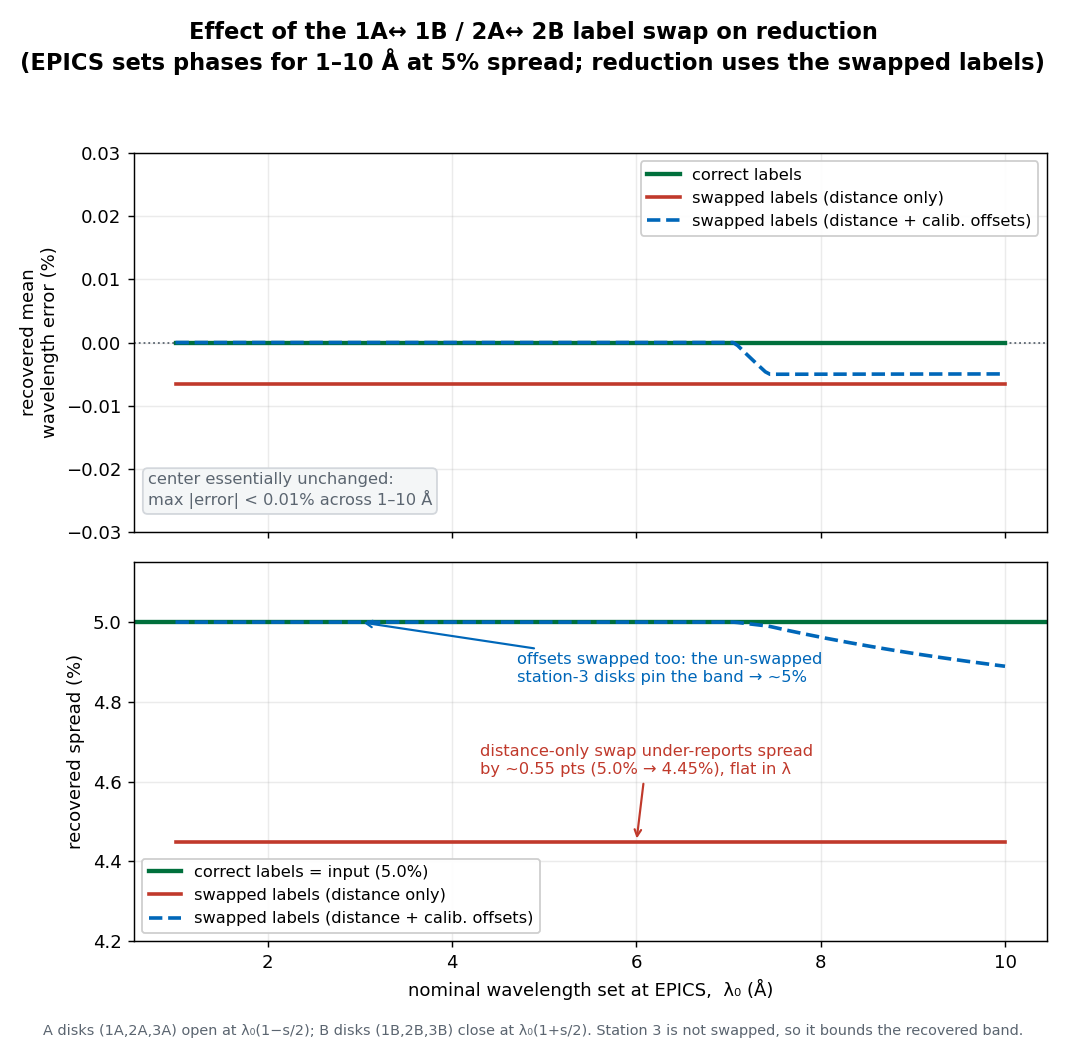
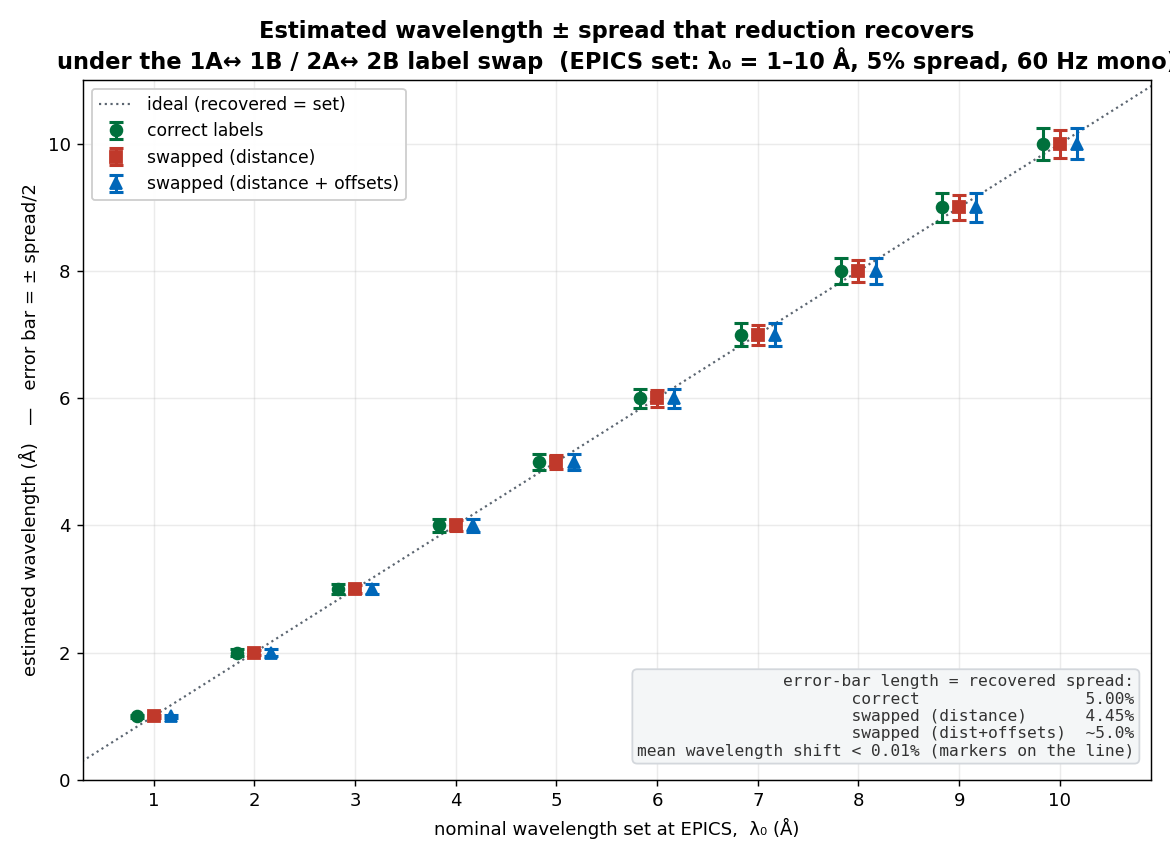
Label-swap plot: markers + error bars at 10 integer wavelengths
Recast as a single-panel comparison: marker = estimated wavelength, error bar =
+/- spread/2, at lambda0 = 1..10 A (dodged per scenario). Clearer read of both
quantities on one axis.

Changed region(s): [[0.0, 0.0, 1.0, 1.0], [0.0, 0.5152, 0.031, 0.7879], [0.2786, 0.6667, 0.3405, 0.697]]

diff --git a/analysis/chopper_label_swap.py b/analysis/chopper_label_swap.py
@@ -60,7 +60,7 @@ def recover(centers, swap_dist=False, swap_offset=False):
 
 def main():
     s_in = 0.05
-    lam = np.linspace(1.0, 10.0, 181)
+    lam = np.arange(1.0, 10.5, 1.0)          # 1,2,...,10 A  -> 10 points
     scen = {"correct":       dict(swap_dist=False, swap_offset=False),
             "swap_dist":     dict(swap_dist=True,  swap_offset=False),
             "swap_dist_off": dict(swap_dist=True,  swap_offset=True)}
@@ -77,47 +77,45 @@ def main():
     assert np.allclose(res["correct"]["s"], s_in, atol=1e-6)
 
     GREEN, BLUE, RED, GREY = "#00703c", "#0067b9", "#c0392b", "#5b6570"
-    fig, (a1, a2) = plt.subplots(2, 1, figsize=(8.2, 8.0), sharex=True)
-    fig.suptitle("Effect of the 1A↔ 1B / 2A↔ 2B label swap on reduction\n"
-                 "(EPICS sets phases for 1–10 Å at 5% spread; reduction uses the swapped labels)",
+    # marker at the estimated (recovered) wavelength; error bar = +/- spread/2
+    series = [
+        ("correct",       "correct labels",                 GREEN, "o", -0.17),
+        ("swap_dist",     "swapped (distance)",             RED,   "s",  0.00),
+        ("swap_dist_off", "swapped (distance + offsets)",   BLUE,  "^",  0.17),
+    ]
+    fig, ax = plt.subplots(figsize=(9.0, 6.6))
+    ax.set_title("Estimated wavelength ± spread that reduction recovers\n"
+                 "under the 1A↔ 1B / 2A↔ 2B label swap  "
+                 "(EPICS set: λ₀ = 1–10 Å, 5% spread, 60 Hz mono)",
                  fontsize=12.5, fontweight="bold")
-
-    a1.axhline(0, color=GREY, lw=1, ls=":")
-    a1.plot(lam, (res["correct"]["c"] - lam) / lam * 100, color=GREEN, lw=2.4, label="correct labels")
-    a1.plot(lam, (res["swap_dist"]["c"] - lam) / lam * 100, color=RED, lw=2.0, label="swapped labels (distance only)")
-    a1.plot(lam, (res["swap_dist_off"]["c"] - lam) / lam * 100, color=BLUE, lw=2.0, ls="--", label="swapped labels (distance + calib. offsets)")
-    a1.set_ylabel("recovered mean\nwavelength error (%)")
-    a1.set_ylim(-0.03, 0.03); a1.grid(alpha=0.25)
-    a1.legend(loc="upper right", fontsize=9, framealpha=0.95)
-    a1.text(0.015, 0.06, "center essentially unchanged:\nmax |error| < 0.01% across 1–10 Å",
-            transform=a1.transAxes, fontsize=9, va="bottom", color=GREY,
+    ax.plot([0, 11], [0, 11], color=GREY, ls=":", lw=1.2, zorder=0,
+            label="ideal (recovered = set)")
+    for key, lab, col, mk, dx in series:
+        c, s = res[key]["c"], res[key]["s"]
+        ax.errorbar(lam + dx, c, yerr=c * s / 2.0, fmt=mk, color=col, ms=6.5,
+                    capsize=4, elinewidth=1.7, capthick=1.7, lw=0, label=lab, zorder=3)
+    ax.set_xlabel("nominal wavelength set at EPICS,  λ₀ (Å)")
+    ax.set_ylabel("estimated wavelength (Å)   —   error bar = ± spread/2")
+    ax.set_xticks(range(1, 11))
+    ax.set_xlim(0.3, 10.9); ax.set_ylim(0, 11)
+    ax.grid(alpha=0.25)
+    ax.legend(loc="upper left", fontsize=9.5, framealpha=0.96)
+    ax.text(0.985, 0.03,
+            "error-bar length = recovered spread:\n"
+            "  correct                 5.00%\n"
+            "  swapped (distance)      4.45%\n"
+            "  swapped (dist+offsets)  ~5.0%\n"
+            "mean wavelength shift < 0.01% (markers on the line)",
+            transform=ax.transAxes, ha="right", va="bottom", fontsize=9,
+            family="monospace", color="#333",
             bbox=dict(boxstyle="round", fc="#f4f6f7", ec="#d3d7dc"))
-
-    a2.axhline(s_in * 100, color=GREEN, lw=2.4, label=f"correct labels = input ({s_in*100:.1f}%)")
-    a2.plot(lam, res["swap_dist"]["s"] * 100, color=RED, lw=2.0, label="swapped labels (distance only)")
-    a2.plot(lam, res["swap_dist_off"]["s"] * 100, color=BLUE, lw=2.0, ls="--", label="swapped labels (distance + calib. offsets)")
-    a2.set_xlabel("nominal wavelength set at EPICS,  λ₀ (Å)")
-    a2.set_ylabel("recovered spread (%)")
-    a2.set_ylim(4.2, 5.15); a2.grid(alpha=0.25)
-    a2.legend(loc="lower left", fontsize=9, framealpha=0.95)
-    a2.annotate("distance-only swap under-reports spread\nby ~0.55 pts (5.0% → 4.45%), flat in λ",
-                xy=(6, 4.448), xytext=(4.3, 4.62), fontsize=9, color=RED,
-                arrowprops=dict(arrowstyle="->", color=RED, lw=1.2))
-    a2.annotate("offsets swapped too: the un-swapped\nstation-3 disks pin the band → ~5%",
-                xy=(3.0, 5.0), xytext=(4.7, 4.85), fontsize=9, color=BLUE,
-                arrowprops=dict(arrowstyle="->", color=BLUE, lw=1.2))
-
-    fig.text(0.5, 0.005, "A disks (1A,2A,3A) open at λ₀(1−s/2); B disks (1B,2B,3B) close at "
-             "λ₀(1+s/2). Station 3 is not swapped, so it bounds the recovered band.",
-             ha="center", fontsize=8, color=GREY)
-    fig.tight_layout(rect=[0, 0.02, 1, 0.95])
+    fig.tight_layout()
     out = os.path.join(os.path.dirname(os.path.abspath(__file__)), "chopper_label_swap.png")
     fig.savefig(out, dpi=130)
     print("wrote", out)
     print(f"\n{'lam0':>5} {'center err% (dist)':>18} {'spread% dist':>13} {'spread% dist+off':>17}")
-    for L in [1, 2, 2.5, 4, 6, 8, 10]:
-        i = int(np.argmin(np.abs(lam - L)))
-        print(f"{lam[i]:5.1f} {(res['swap_dist']['c'][i]-lam[i])/lam[i]*100:18.4f}"
+    for i, L in enumerate(lam):
+        print(f"{L:5.1f} {(res['swap_dist']['c'][i]-L)/L*100:18.4f}"
               f"{res['swap_dist']['s'][i]*100:13.3f}{res['swap_dist_off']['s'][i]*100:17.3f}")
 
 
